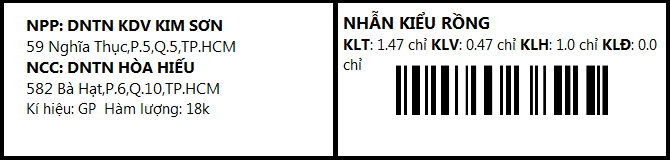
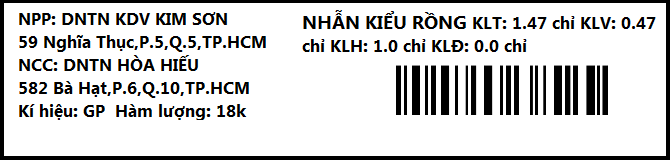
edit template

Changed region(s): [[0.4478, 0.0312, 0.9851, 0.9688], [0.0299, 0.0625, 0.4179, 0.4688], [0.0299, 0.5, 0.3881, 0.75]]

diff --git a/README.md b/README.md
@@ -32,6 +32,9 @@ OS: Windows 7,10
 
 **Content**
 
+Font:`Segoe UI` Bold Fontsize: 13 Bold 
+
+Text
 NPP: DNTN KDV KIM SƠN
 59 Nghĩa Thục,P.5,Q.5,TP.HCM
 NCC: DNTN HÒA HIẾU
